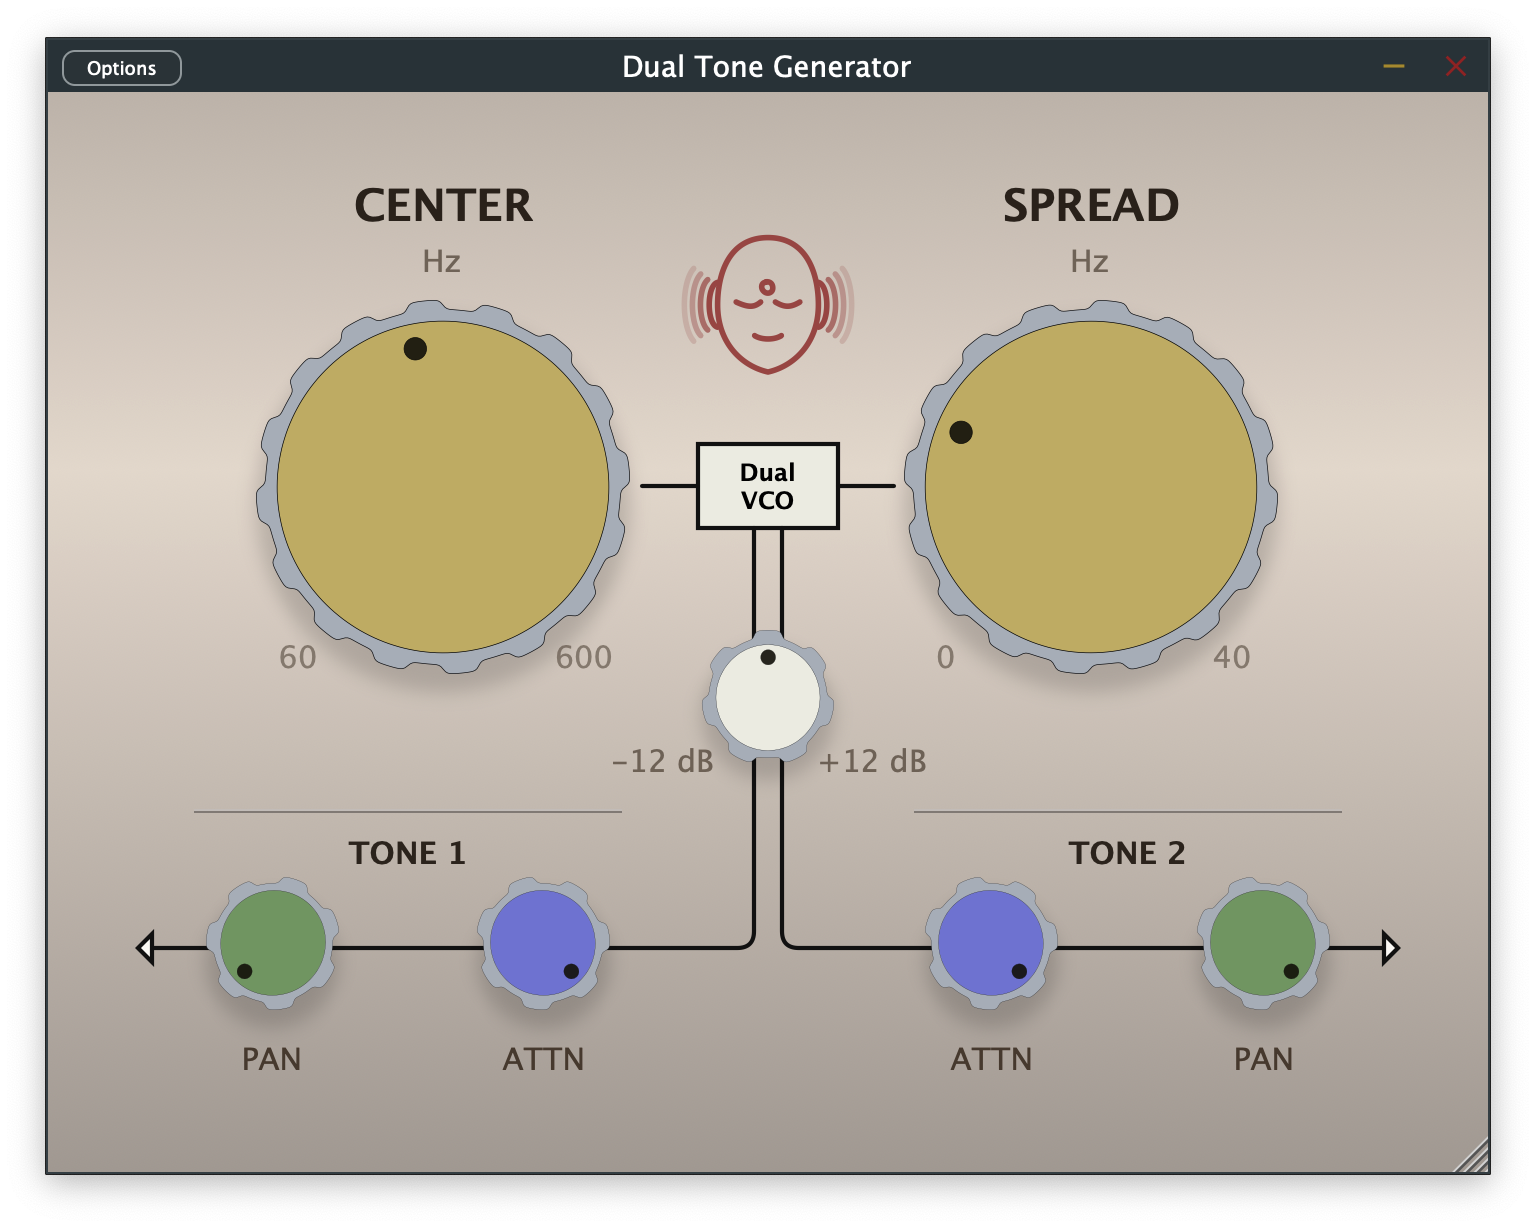
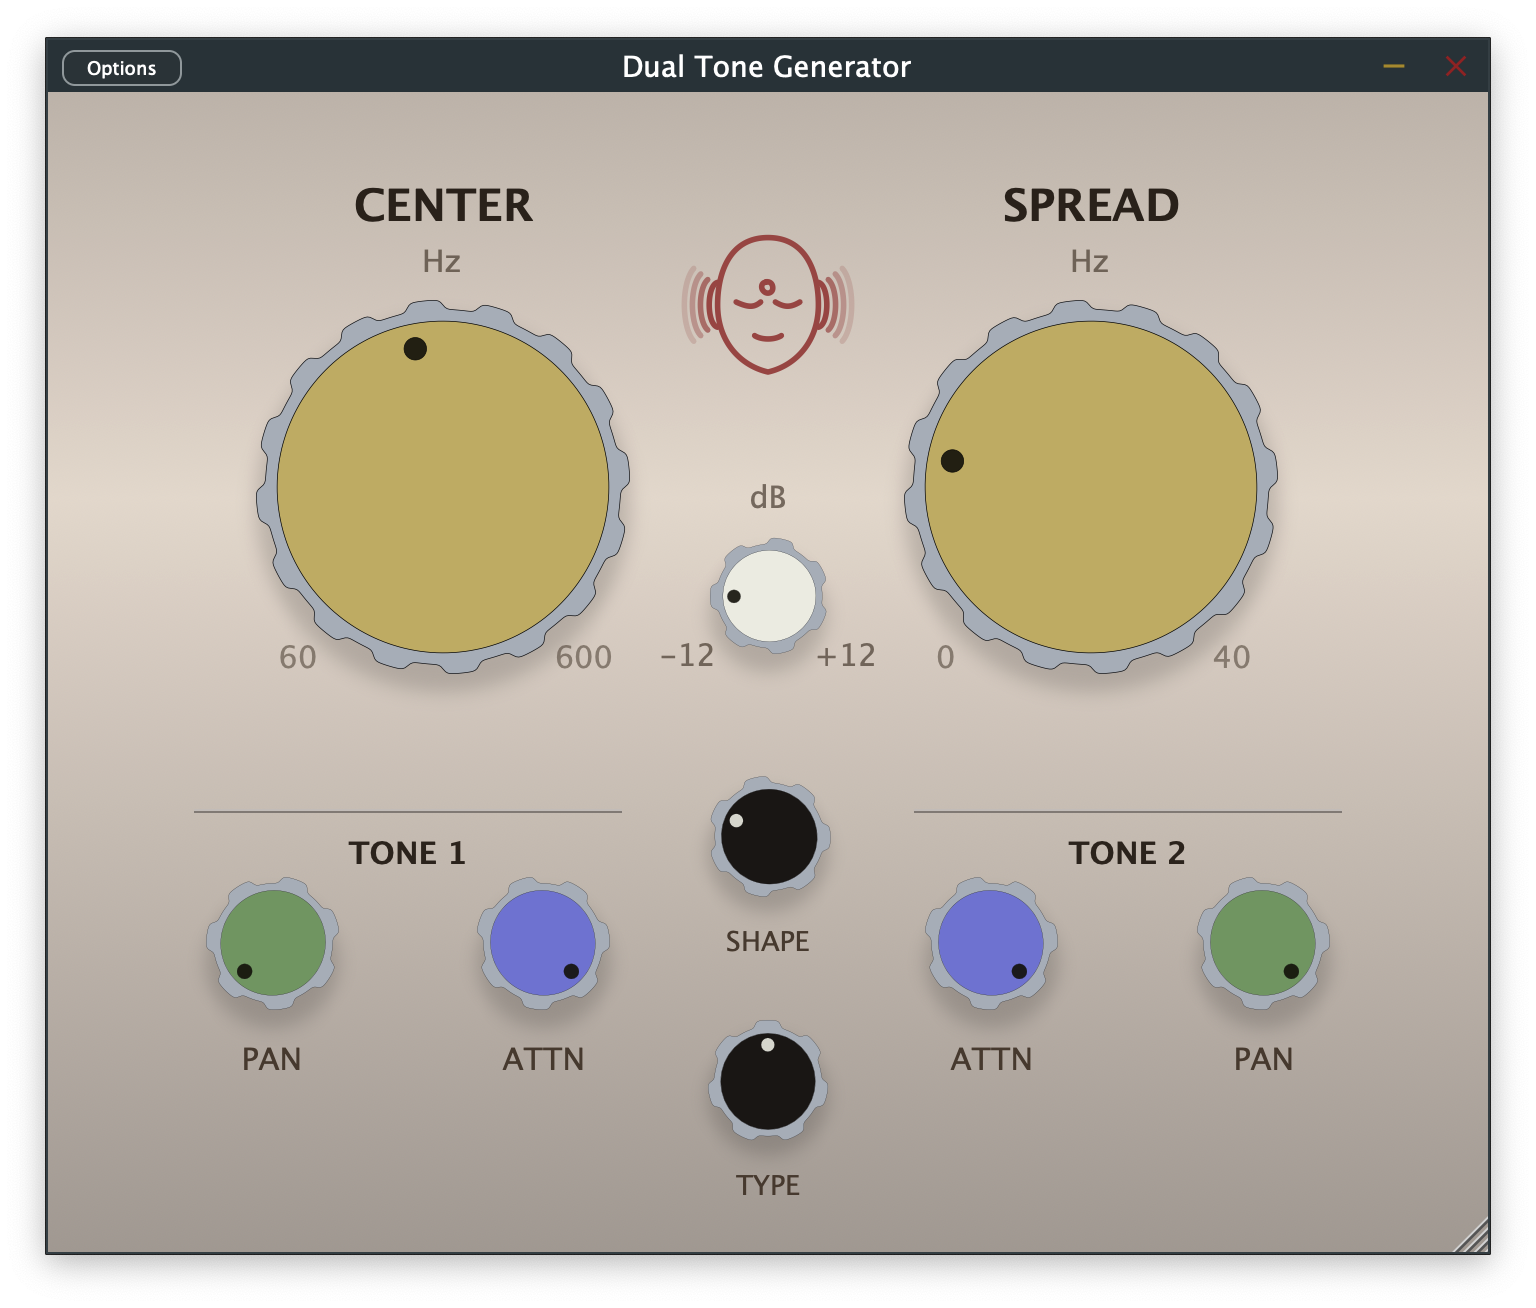
feat: add wave shaping type functionality
- Updated SVG asset for the knob marker color.
- Introduced a new slider for shape type in PluginEditor.
- Enhanced parameter layout in PluginProcessor to include shape type.
- Implemented shape type processing in the audio processing block, which blends between 2 types.
- Adjusted UI layout to accommodate the new shape type slider.
- Updated README to document the new shape and type feature.

diff --git a/source/PluginEditor.cpp b/source/PluginEditor.cpp
@@ -6,6 +6,7 @@ namespace
 {
 constexpr int defaultEditorWidth = 720;
 constexpr int defaultEditorHeight = 540;
+constexpr int extraBottomPadding = 40;
 constexpr float minEditorScale = 0.5f;
 constexpr float maxEditorScale = 2.0f;
 
@@ -53,6 +54,7 @@ DualToneGeneratorAudioProcessorEditor::DualToneGeneratorAudioProcessorEditor(Dua
       attenuationTwoAttachment(processorRef.getValueTreeState(), "atten2", attenuationTwoSlider),
       gainAttachment(processorRef.getValueTreeState(), "gain", gainSlider),
       shapeAttachment(processorRef.getValueTreeState(), "shape", shapeSlider),
+      typeAttachment(processorRef.getValueTreeState(), "shapeType", typeSlider),
       largeDialLookAndFeel(std::make_unique<SvgDialLookAndFeel>(BinaryData::cog_knob_large_svg,
                                                                 BinaryData::cog_knob_large_svgSize,
                                                                 largeDialTrackColour,
@@ -82,11 +84,12 @@ DualToneGeneratorAudioProcessorEditor::DualToneGeneratorAudioProcessorEditor(Dua
     configureSlider(panTwoSlider, panTwoLabel, "PAN", juce::Slider::RotaryVerticalDrag);
     configureSlider(gainSlider, gainLabel, "GAIN", juce::Slider::RotaryVerticalDrag);
     configureSlider(shapeSlider, shapeLabel, "SHAPE", juce::Slider::RotaryVerticalDrag);
+    configureSlider(typeSlider, typeLabel, "TYPE", juce::Slider::RotaryVerticalDrag);
 
     const auto startAngle = juce::degreesToRadians(225.0f);
     const auto endAngle = juce::degreesToRadians(495.0f);
 
-    for (auto* slider : { &centerSlider, &spreadSlider, &panOneSlider, &panTwoSlider, &attenuationOneSlider, &attenuationTwoSlider, &gainSlider, &shapeSlider })
+    for (auto* slider : { &centerSlider, &spreadSlider, &panOneSlider, &panTwoSlider, &attenuationOneSlider, &attenuationTwoSlider, &gainSlider, &shapeSlider, &typeSlider })
     {
         slider->setRotaryParameters(startAngle, endAngle, true);
         slider->setPaintingIsUnclipped(true);
@@ -104,6 +107,7 @@ DualToneGeneratorAudioProcessorEditor::DualToneGeneratorAudioProcessorEditor(Dua
     attenuationTwoSlider.setLookAndFeel(blueDialLookAndFeel.get());
     gainSlider.setLookAndFeel(grayDialLookAndFeel.get());
     shapeSlider.setLookAndFeel(darkDialLookAndFeel.get());
+    typeSlider.setLookAndFeel(darkDialLookAndFeel.get());
 
     centerSlider.setTextValueSuffix(" Hz");
     centerSlider.setNumDecimalPlacesToDisplay(1);
@@ -133,6 +137,14 @@ DualToneGeneratorAudioProcessorEditor::DualToneGeneratorAudioProcessorEditor(Dua
     gainSlider.setNumDecimalPlacesToDisplay(1);
     shapeSlider.setTextValueSuffix(" dB");
     shapeSlider.setNumDecimalPlacesToDisplay(1);
+    typeSlider.textFromValueFunction = [](double value)
+    {
+        return juce::String(juce::roundToInt(value * 100.0)) + "%";
+    };
+    typeSlider.valueFromTextFunction = [](const juce::String& text)
+    {
+        return text.trimCharactersAtEnd("%").getDoubleValue() * 0.01;
+    };
 
     logoDrawable = juce::Drawable::createFromImageData(BinaryData::logo_svg,
                                                        BinaryData::logo_svgSize);
@@ -177,17 +189,18 @@ DualToneGeneratorAudioProcessorEditor::DualToneGeneratorAudioProcessorEditor(Dua
     initStaticLabel(spreadMaxLabel, "40", 18.0f, false, labelActiveColour.withMultipliedAlpha(0.55f));
 
     const auto minWidth = juce::roundToInt(static_cast<float>(defaultEditorWidth) * minEditorScale);
-    const auto minHeight = juce::roundToInt(static_cast<float>(defaultEditorHeight) * minEditorScale);
+    const auto minHeight = juce::roundToInt(static_cast<float>(defaultEditorHeight) * minEditorScale) + extraBottomPadding;
     const auto maxWidth = juce::roundToInt(static_cast<float>(defaultEditorWidth) * maxEditorScale);
-    const auto maxHeight = juce::roundToInt(static_cast<float>(defaultEditorHeight) * maxEditorScale);
+    const auto maxHeight = juce::roundToInt(static_cast<float>(defaultEditorHeight) * maxEditorScale) + extraBottomPadding;
 
     setResizeLimits(minWidth, minHeight, maxWidth, maxHeight);
     setResizable(true, true);
 
     if (auto* constrainer = getConstrainer())
-        constrainer->setFixedAspectRatio(static_cast<double>(defaultEditorWidth) / static_cast<double>(defaultEditorHeight));
+        constrainer->setFixedAspectRatio(static_cast<double>(defaultEditorWidth)
+                                         / static_cast<double>(defaultEditorHeight + extraBottomPadding));
 
-    setSize(defaultEditorWidth, defaultEditorHeight);
+    setSize(defaultEditorWidth, defaultEditorHeight + extraBottomPadding);
     startTimerHz(10);
 }
 
@@ -195,7 +208,7 @@ DualToneGeneratorAudioProcessorEditor::~DualToneGeneratorAudioProcessorEditor()
 {
     stopTimer();
 
-    for (auto* slider : { &centerSlider, &spreadSlider, &panOneSlider, &panTwoSlider, &attenuationOneSlider, &attenuationTwoSlider, &gainSlider, &shapeSlider })
+    for (auto* slider : { &centerSlider, &spreadSlider, &panOneSlider, &panTwoSlider, &attenuationOneSlider, &attenuationTwoSlider, &gainSlider, &shapeSlider, &typeSlider })
         slider->setLookAndFeel(nullptr);
 }
 
@@ -267,16 +280,18 @@ void DualToneGeneratorAudioProcessorEditor::resized()
 {
     const auto width = getWidth();
     const auto height = getHeight();
+    const auto layoutHeight = height - extraBottomPadding;
     auto scale = juce::jmin(static_cast<float>(width) / static_cast<float>(defaultEditorWidth),
-                            static_cast<float>(height) / static_cast<float>(defaultEditorHeight));
+                            static_cast<float>(layoutHeight) / static_cast<float>(defaultEditorHeight));
     scale = juce::jlimit(minEditorScale, maxEditorScale, scale);
 
     updateScaledStyles(scale);
 
     auto rootBounds = getLocalBounds();
+    auto layoutBounds = rootBounds.withTrimmedBottom(extraBottomPadding);
 
     const auto margin = juce::roundToInt(36.0f * scale);
-    auto contentArea = rootBounds.reduced(margin);
+    auto contentArea = layoutBounds.reduced(margin);
 
     auto expandedContent = contentArea;
     const auto expandTop = juce::roundToInt(20.0f * scale);
@@ -387,13 +402,22 @@ void DualToneGeneratorAudioProcessorEditor::resized()
 
     const auto shapeAreaWidth = juce::jmax(juce::roundToInt(static_cast<float>(panOneSlider.getWidth()) * 1.6f),
                                            juce::roundToInt(120.0f * scale));
-    const auto shapeAreaHeight = juce::jmax(juce::roundToInt(static_cast<float>(panOneSlider.getHeight()) * 1.6f),
-                                            juce::roundToInt(140.0f * scale));
-    const auto shapeCentre = juce::Point<int>(gainSlider.getBounds().getCentreX(), toneDialsCentreY);
+    const auto shapeAreaHeight = juce::jmax(juce::roundToInt(static_cast<float>(panOneSlider.getHeight()) * 2.6f),
+                                            juce::roundToInt(240.0f * scale));
+    const auto shapeVerticalOffset = juce::roundToInt(30.0f * scale);
+    const auto shapeCentre = juce::Point<int>(gainSlider.getBounds().getCentreX(),
+                                              toneDialsCentreY + shapeVerticalOffset);
     auto shapeArea = juce::Rectangle<int>(shapeAreaWidth, shapeAreaHeight)
                          .withCentre(shapeCentre)
                          .getIntersection(contentPanelBounds);
-    layoutSmallDial(shapeSlider, shapeLabel, shapeArea, scale);
+    const auto shapeTypeSpacing = juce::roundToInt(8.0f * scale);
+    auto stackedArea = shapeArea;
+    auto shapeDialArea = stackedArea.removeFromTop(stackedArea.getHeight() / 2);
+    stackedArea.removeFromTop(shapeTypeSpacing);
+    auto typeDialArea = stackedArea;
+    const auto dialScale = scale * 0.9f;
+    layoutSmallDial(shapeSlider, shapeLabel, shapeDialArea, dialScale);
+    layoutSmallDial(typeSlider, typeLabel, typeDialArea, dialScale);
 
     toneOnePanelBounds = expandPanel(toneOneArea, tonePanelExpandTop, tonePanelExpandBottom);
     toneTwoPanelBounds = expandPanel(toneTwoArea, tonePanelExpandTop, tonePanelExpandBottom);
@@ -449,7 +473,8 @@ void DualToneGeneratorAudioProcessorEditor::updateScaledStyles(float scale)
     setLabelFont(gainMinLabel, 18.0f);
     setLabelFont(gainMaxLabel, 18.0f);
     setLabelFont(gainLabel, 18.0f);
-    setLabelFont(shapeLabel, 18.0f);
+    setLabelFont(shapeLabel, 16.0f);
+    setLabelFont(typeLabel, 16.0f);
     setLabelFont(toneOneTitleLabel, 18.0f, true);
     setLabelFont(toneTwoTitleLabel, 18.0f, true);
     setLabelFont(centerUnitLabel, 18.0f);
@@ -550,13 +575,11 @@ void DualToneGeneratorAudioProcessorEditor::layoutGainDial(juce::Rectangle<int> 
     const auto labelDistance = juce::roundToInt(20.0f * scale);
     const auto labelHorizontalOffset = juce::roundToInt(18.0f * scale);
     const auto labelVerticalLift = juce::roundToInt(10.0f * scale);
-    const auto gainVerticalOffset = juce::roundToInt(20.0f * scale);
+    const auto gainVerticalOffset = juce::roundToInt(60.0f * scale);
     const auto gainUnitHeight = juce::roundToInt(22.0f * scale);
     const auto gainUnitGap = juce::roundToInt(4.0f * scale);
 
-    const auto referenceSize = panOneSlider.getBounds().getWidth();
-    const auto fallbackSize = juce::roundToInt(90.0f * scale);
-    const auto dialSize = referenceSize > 0 ? referenceSize : fallbackSize;
+    const auto dialSize = juce::roundToInt(70.0f * scale);
 
     auto dialBounds = juce::Rectangle<int>(dialSize, dialSize).withCentre(area.getCentre());
     dialBounds.translate(0, -gainVerticalOffset);

diff --git a/source/PluginProcessor.cpp b/source/PluginProcessor.cpp
@@ -29,6 +29,7 @@ DualToneGeneratorAudioProcessor::DualToneGeneratorAudioProcessor()
     attenuationTwoParam = parameters.getRawParameterValue("atten2");
     gainParam = parameters.getRawParameterValue("gain");
     shaperParam = parameters.getRawParameterValue("shape");
+    shapeTypeParam = parameters.getRawParameterValue("shapeType");
 }
 
 juce::AudioProcessorValueTreeState::ParameterLayout DualToneGeneratorAudioProcessor::createParameterLayout()
@@ -52,6 +53,21 @@ juce::AudioProcessorValueTreeState::ParameterLayout DualToneGeneratorAudioProces
     layout.add(std::make_unique<AudioParameterFloat>("gain", "Gain", gainRange, defaultGainDb, "dB"));
     auto shaperRange = NormalisableRange<float>(-24.0f, 6.0f, 0.01f);
     layout.add(std::make_unique<AudioParameterFloat>("shape", "Shape", shaperRange, -24.0f, "dB"));
+    auto shapeTypeRange = NormalisableRange<float>(0.0f, 1.0f, 0.001f);
+    auto shapeTypeAttributes = juce::AudioParameterFloatAttributes()
+                                   .withStringFromValueFunction([](float value, int)
+                                                                {
+                                                                    return juce::String(juce::roundToInt(value * 100.0f)) + "%";
+                                                                })
+                                   .withValueFromStringFunction([](const juce::String& text)
+                                                                {
+                                                                    return text.trimCharactersAtEnd("%").getFloatValue() * 0.01f;
+                                                                });
+    layout.add(std::make_unique<AudioParameterFloat>("shapeType",
+                                                     "Shape Type",
+                                                     shapeTypeRange,
+                                                     0.0f,
+                                                     shapeTypeAttributes));
 
     return layout;
 }
@@ -121,6 +137,9 @@ void DualToneGeneratorAudioProcessor::processBlockInternal(juce::AudioBuffer<Sam
     const auto shaperAmount = std::pow(10.0, shaperDb / 20.0);
     const auto shaperDenominator = std::tanh(shaperAmount);
     const auto shaperScale = shaperDenominator != 0.0 ? (1.0 / shaperDenominator) : 1.0;
+    const auto sinDenominator = std::sin(shaperAmount);
+    const auto sinScale = sinDenominator != 0.0 ? (1.0 / sinDenominator) : 1.0;
+    const auto shapeMix = juce::jlimit(0.0f, 1.0f, shapeTypeParam != nullptr ? shapeTypeParam->load() : 0.0f);
     const bool stereo = (numChannels >= 2);
 
     const auto increment1 = (juce::MathConstants<double>::twoPi * freq1) / currentSampleRate;
@@ -155,8 +174,14 @@ void DualToneGeneratorAudioProcessor::processBlockInternal(juce::AudioBuffer<Sam
         if (phaseTwo >= juce::MathConstants<double>::twoPi)
             phaseTwo -= juce::MathConstants<double>::twoPi;
 
-        const auto shapedWave1 = static_cast<SampleType>(std::tanh(static_cast<double>(wave1) * shaperAmount) * shaperScale);
-        const auto shapedWave2 = static_cast<SampleType>(std::tanh(static_cast<double>(wave2) * shaperAmount) * shaperScale);
+        const auto tanhWave1 = std::tanh(static_cast<double>(wave1) * shaperAmount) * shaperScale;
+        const auto tanhWave2 = std::tanh(static_cast<double>(wave2) * shaperAmount) * shaperScale;
+        const auto sinWave1 = std::sin(static_cast<double>(wave1) * shaperAmount) * sinScale;
+        const auto sinWave2 = std::sin(static_cast<double>(wave2) * shaperAmount) * sinScale;
+        const auto shapedWave1 = static_cast<SampleType>((1.0 - static_cast<double>(shapeMix)) * tanhWave1
+                                                         + static_cast<double>(shapeMix) * sinWave1);
+        const auto shapedWave2 = static_cast<SampleType>((1.0 - static_cast<double>(shapeMix)) * tanhWave2
+                                                         + static_cast<double>(shapeMix) * sinWave2);
 
         auto tone1 = static_cast<SampleType>(shapedWave1 * toneGain);
         auto tone2 = static_cast<SampleType>(shapedWave2 * toneGain);

diff --git a/source/PluginEditor.h b/source/PluginEditor.h
@@ -65,6 +65,7 @@ private:
     juce::Slider attenuationTwoSlider;
     juce::Slider gainSlider;
     juce::Slider shapeSlider;
+    juce::Slider typeSlider;
 
     juce::Label gainMinLabel;
     juce::Label gainMaxLabel;
@@ -78,6 +79,7 @@ private:
     juce::Label attenuationTwoLabel;
     juce::Label gainLabel;
     juce::Label shapeLabel;
+    juce::Label typeLabel;
     juce::Label centerUnitLabel;
     juce::Label spreadUnitLabel;
     juce::Label centerMinLabel;
@@ -93,6 +95,7 @@ private:
     juce::AudioProcessorValueTreeState::SliderAttachment attenuationTwoAttachment;
     juce::AudioProcessorValueTreeState::SliderAttachment gainAttachment;
     juce::AudioProcessorValueTreeState::SliderAttachment shapeAttachment;
+    juce::AudioProcessorValueTreeState::SliderAttachment typeAttachment;
 
     std::unique_ptr<SvgDialLookAndFeel> largeDialLookAndFeel;
     std::unique_ptr<SvgDialLookAndFeel> greenDialLookAndFeel;

diff --git a/source/PluginProcessor.h b/source/PluginProcessor.h
@@ -58,6 +58,7 @@ private:
     std::atomic<float>* attenuationTwoParam = nullptr;
     std::atomic<float>* gainParam = nullptr;
     std::atomic<float>* shaperParam = nullptr;
+    std::atomic<float>* shapeTypeParam = nullptr;
 
     double currentSampleRate = 44100.0;
     double phaseOne = 0.0;

diff --git a/README.md b/README.md
@@ -11,6 +11,8 @@ This project builds a dual-tone audio generator as an AU component. The AU gener
 - Attn 1: The attenuation (dB) of wave 1.
 - Attn 2: The attenuation (dB) of wave 2.
 - Gain: Overall gain control (0-100 %).
+- Shape: Degree of non-linearity applied to each tone.
+- Type: Blend between two types of non-linear curves.
 
 ![GUI](images/guipreview.png)
 
